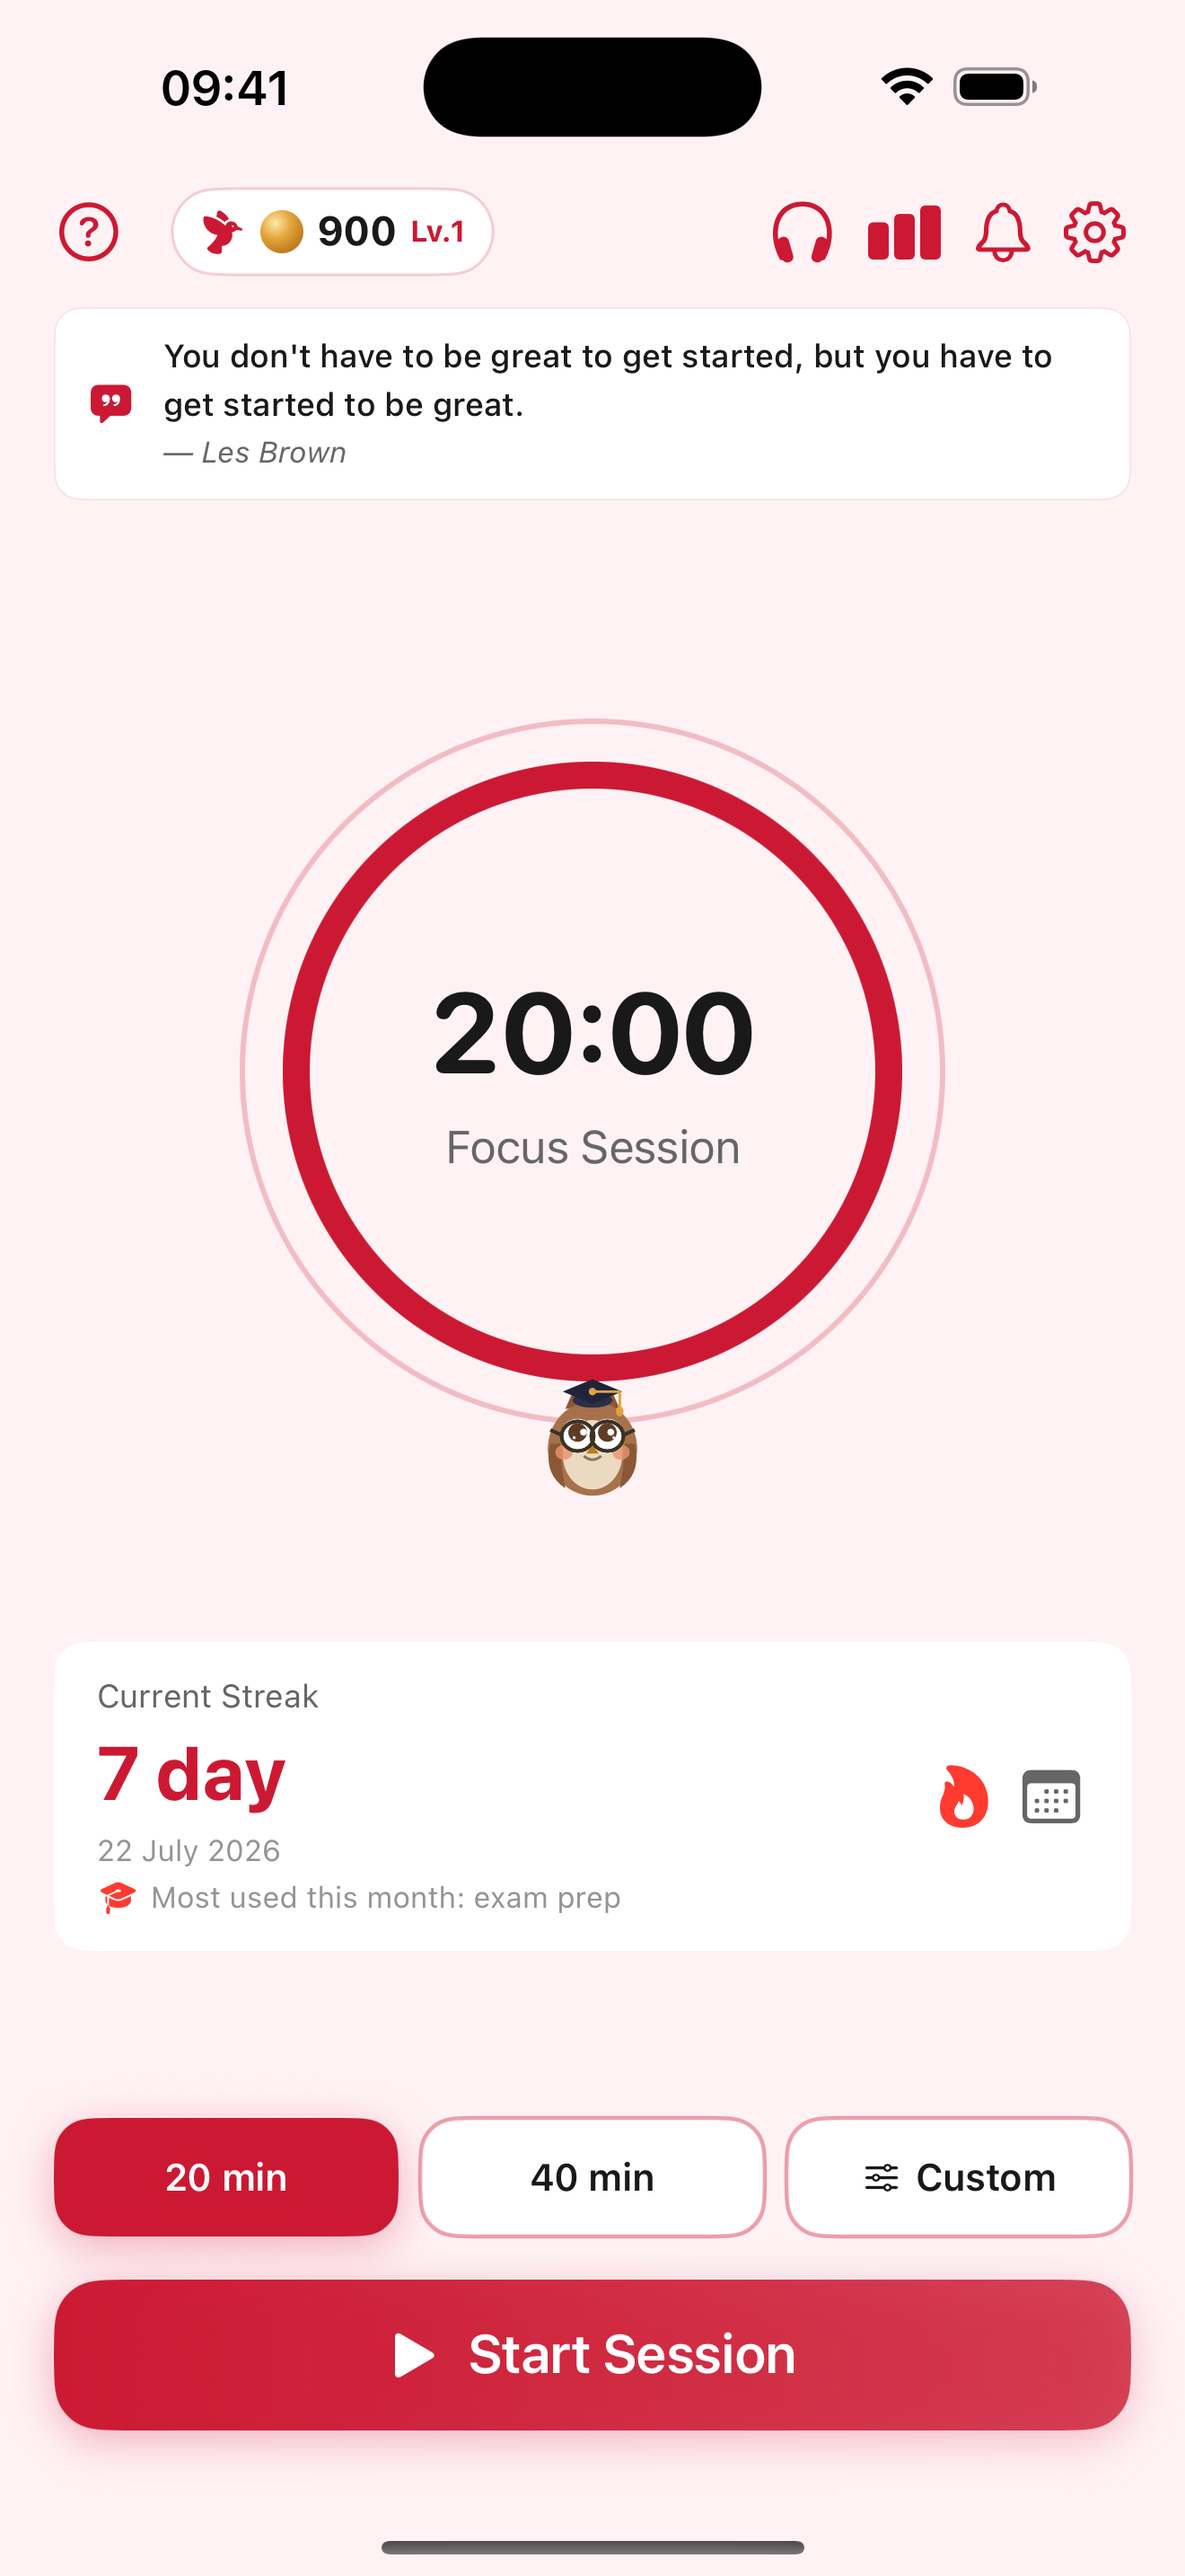
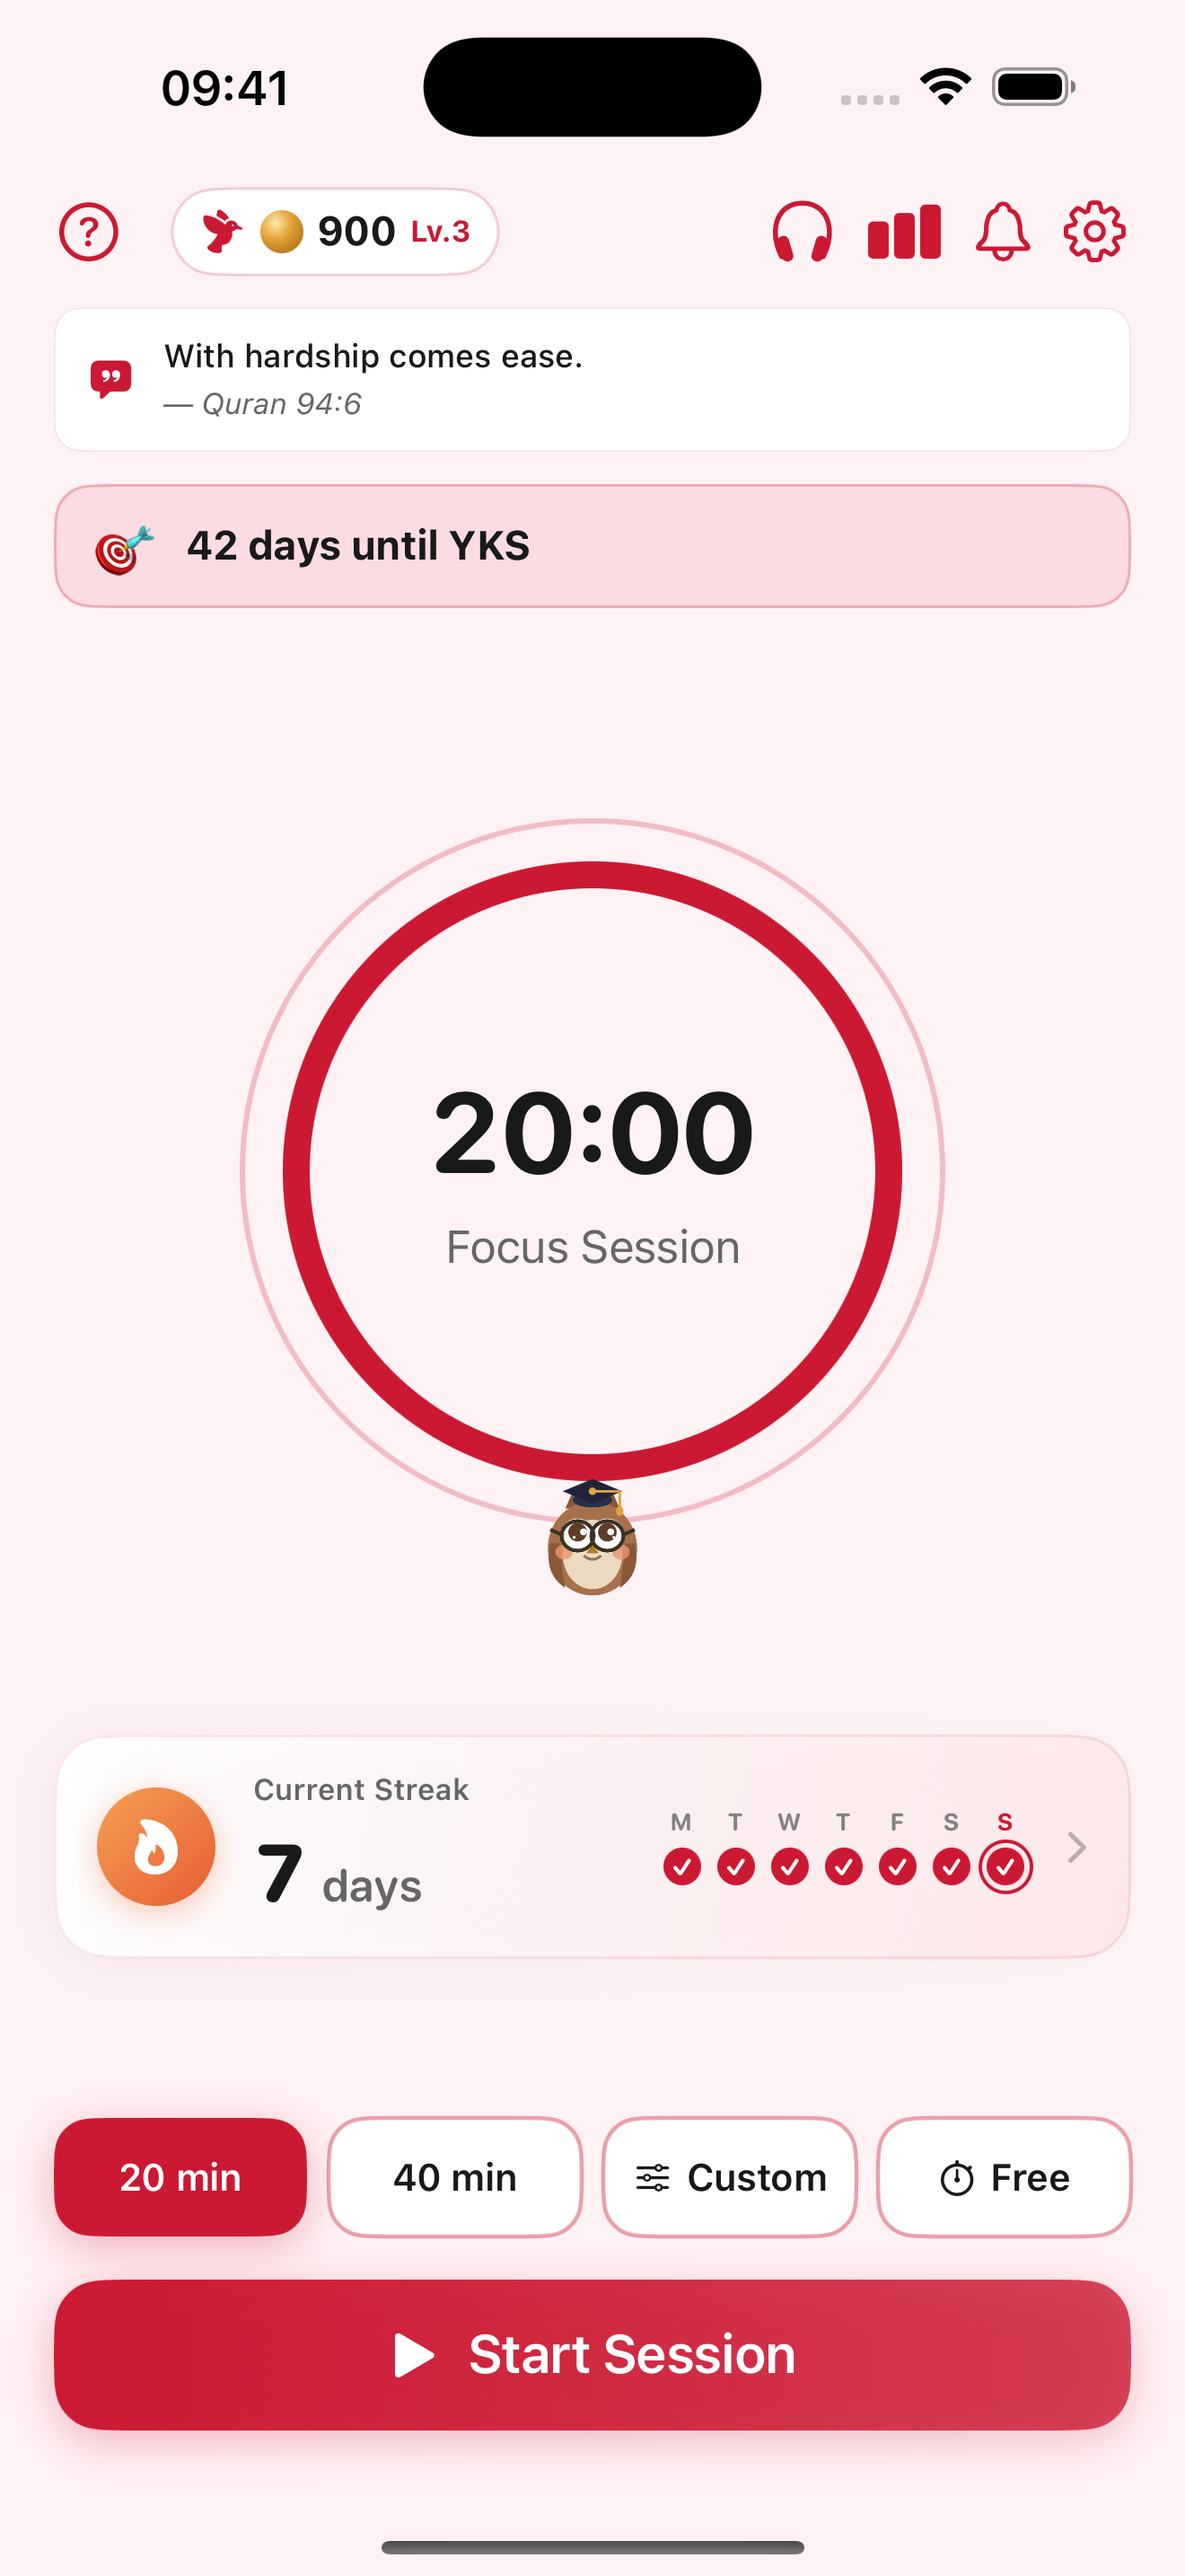
feat: 1.0.3 özellikleri — Sınav Geri Sayımı ve Seri Güvencesi kartları (6 dil), ana ekran görseli sınav kartıyla yenilendi

diff --git a/index.html b/index.html
@@ -278,6 +278,8 @@
         <div class="card reveal d3"><div class="ic"><svg viewBox="0 0 24 24" fill="none" stroke="currentColor" stroke-width="2" stroke-linecap="round" stroke-linejoin="round"><path d="M12 20h.01"/><path d="M8.5 16.429a5 5 0 0 1 7 0"/><path d="M5 12.859a10 10 0 0 1 5.17-2.69"/><path d="M19 12.859a10 10 0 0 0-2.007-1.523"/><path d="M2 8.82a15 15 0 0 1 4.177-2.643"/><path d="M22 8.82a15 15 0 0 0-11.288-3.764"/><path d="m2 2 20 20"/></svg></div><h3 data-i18n="g4_t">100% Offline</h3><p data-i18n="g4_d">No sign-up, no account, no distractions. Your data stays on your device.</p></div>
         <div class="card reveal"><div class="ic"><svg viewBox="0 0 24 24" fill="none" stroke="currentColor" stroke-width="2" stroke-linecap="round" stroke-linejoin="round"><path d="M12 3c-3.5 0-6 2.6-6 6v5a6 6 0 0 0 12 0V9c0-3.4-2.5-6-6-6Z"/><circle cx="9.5" cy="10" r="1"/><circle cx="14.5" cy="10" r="1"/><path d="M12 13v1"/><path d="m8 3 1.5 2M16 3l-1.5 2"/></svg></div><h3 data-i18n="g5_t">Your Study Owl</h3><p data-i18n="g5_d">Earn coins as you study and unlock rooms, outfits and achievements for your owl.</p></div>
         <div class="card reveal d1"><div class="ic"><svg viewBox="0 0 24 24" fill="none" stroke="currentColor" stroke-width="2" stroke-linecap="round" stroke-linejoin="round"><rect width="7" height="12" x="2" y="6" rx="1"/><path d="M5.5 4v2M5.5 18v2"/><rect width="10" height="14" x="12" y="5" rx="1.5"/><path d="M16 17h2"/></svg></div><h3 data-i18n="g6_t">Watch & iPad</h3><p data-i18n="g6_d">Start sprints from your wrist with the Apple Watch app. Full iPad support included.</p></div>
+        <div class="card reveal d2"><div class="ic"><svg viewBox="0 0 24 24" fill="none" stroke="currentColor" stroke-width="2" stroke-linecap="round" stroke-linejoin="round"><path d="M21.42 10.922a1 1 0 0 0-.019-1.838L12.83 5.18a2 2 0 0 0-1.66 0L2.6 9.08a1 1 0 0 0 0 1.832l8.57 3.908a2 2 0 0 0 1.66 0z"/><path d="M22 10v6"/><path d="M6 12.5V16a6 3 0 0 0 12 0v-3.5"/></svg></div><h3 data-i18n="g7_t">Exam Countdowns</h3><p data-i18n="g7_d">Add every exam you're preparing for and see the days left on your home screen and Lock Screen.</p></div>
+        <div class="card reveal d3"><div class="ic"><svg viewBox="0 0 24 24" fill="none" stroke="currentColor" stroke-width="2" stroke-linecap="round" stroke-linejoin="round"><path d="M20 13c0 5-3.5 7.5-7.66 8.95a1 1 0 0 1-.67-.01C7.5 20.5 4 18 4 13V6a1 1 0 0 1 1-1c2 0 4.5-1.2 6.24-2.72a1 1 0 0 1 1.52 0C14.5 3.8 17 5 19 5a1 1 0 0 1 1 1z"/><path d="m9 12 2 2 4-4"/></svg></div><h3 data-i18n="g8_t">Streak Safety Net</h3><p data-i18n="g8_d">Freeze tokens and one-day repair keep a busy day from breaking your streak.</p></div>
       </div>
     </div>
   </section>
@@ -371,6 +373,8 @@
         g4_t:`100% Offline`, g4_d:`No sign-up, no account, no distractions. Your data stays on your device.`,
         g5_t:`Your Study Owl`, g5_d:`Earn coins as you study and unlock rooms, outfits and achievements for your owl.`,
         g6_t:`Watch & iPad`, g6_d:`Start sprints from your wrist with the Apple Watch app. Full iPad support included.`,
+        g7_t:`Exam Countdowns`, g7_d:`Add every exam you're preparing for and see the days left on your home screen and Lock Screen.`,
+        g8_t:`Streak Safety Net`, g8_d:`Freeze tokens and one-day repair keep a busy day from breaking your streak.`,
         r_eyebrow:`From the App Store`, r_title:`Study Companions, Not Chores`,
         q1:`"A perfect app for anyone who struggles with focus, especially students preparing for exams."`, q1_role:`App Store review`,
         q2:`"A quality app with a clear, accessible interface where you can plan and track how you spend your time."`, q2_role:`App Store review`,
@@ -405,6 +409,8 @@
         g4_t:`%100 Çevrimdışı`, g4_d:`Kayıt yok, hesap yok, dikkat dağıtan yok. Verilerin cihazında kalır.`,
         g5_t:`Çalışma Baykuşun`, g5_d:`Çalıştıkça coin kazan, baykuşun için odalar, kostümler ve başarımlar aç.`,
         g6_t:`Watch ve iPad`, g6_d:`Apple Watch uygulamasıyla sprintleri bileğinden başlat, artık tam iPad desteğiyle.`,
+        g7_t:`Sınav Geri Sayımı`, g7_d:`Hazırlandığın her sınavı ekle; kalan günleri ana ekranda ve kilit ekranında gör.`,
+        g8_t:`Seri Güvencesi`, g8_d:`Dondurma jetonu ve tek günlük telafi, yoğun bir günün serini bozmasına izin vermez.`,
         r_eyebrow:`App Store'dan`, r_title:`Yük Değil, Çalışma Arkadaşı`,
         q1:`"Odak problemi yaşayanlar için ve özellikle sınava çalışan çocuklar için on numara uygulama olmuş."`, q1_role:`App Store yorumu`,
         q2:`"Kolay anlaşılır ve erişilebilir arayüzü ile zaman yönetiminizi planlayıp takip edebileceğiniz kaliteli bir uygulama."`, q2_role:`App Store yorumu`,
@@ -439,6 +445,8 @@
         g4_t:`100 % Offline`, g4_d:`Keine Anmeldung, kein Konto, keine Ablenkung. Deine Daten bleiben auf deinem Gerät.`,
         g5_t:`Deine Lern-Eule`, g5_d:`Verdiene Coins beim Lernen, schalte Räume, Outfits und Erfolge für deine Eule frei.`,
         g6_t:`Watch & iPad`, g6_d:`Starte Sprints mit der Apple-Watch-App vom Handgelenk, jetzt mit voller iPad-Unterstützung.`,
+        g7_t:`Prüfungs-Countdown`, g7_d:`Füge jede Prüfung hinzu und sieh die verbleibenden Tage auf Start- und Sperrbildschirm.`,
+        g8_t:`Serien-Schutz`, g8_d:`Einfrier-Token und die Ein-Tages-Reparatur verhindern, dass ein voller Tag deine Serie beendet.`,
         r_eyebrow:`Aus dem App Store`, r_title:`Lernbegleiter statt Pflicht`,
         q1:`„Eine großartige App für alle mit Konzentrationsproblemen, besonders für Schüler, die für Prüfungen lernen."`, q1_role:`App-Store-Rezension`,
         q2:`„Eine hochwertige App mit klarer, zugänglicher Oberfläche, mit der du deine Zeit planen und verfolgen kannst."`, q2_role:`App-Store-Rezension`,
@@ -473,6 +481,8 @@
         g4_t:`100 % sin conexión`, g4_d:`Sin registro, sin cuenta, sin distracciones. Tus datos se quedan en tu dispositivo.`,
         g5_t:`Tu búho de estudio`, g5_d:`Gana monedas al estudiar, desbloquea salas, atuendos y logros para tu búho.`,
         g6_t:`Watch y iPad`, g6_d:`Inicia sprints desde tu muñeca con la app de Apple Watch, ahora con soporte completo para iPad.`,
+        g7_t:`Cuenta atrás de exámenes`, g7_d:`Añade cada examen que preparas y ve los días restantes en la pantalla de inicio y la de bloqueo.`,
+        g8_t:`Red de seguridad para tu racha`, g8_d:`Los tokens de congelación y la reparación de un día evitan que un día ocupado rompa tu racha.`,
         r_eyebrow:`Del App Store`, r_title:`Compañeros de estudio, no tareas`,
         q1:`"Una app perfecta para quienes tienen problemas de concentración, sobre todo estudiantes que preparan exámenes."`, q1_role:`Reseña de App Store`,
         q2:`"Una app de calidad con una interfaz clara y accesible para planificar y seguir tu tiempo."`, q2_role:`Reseña de App Store`,
@@ -507,6 +517,8 @@
         g4_t:`100 % hors ligne`, g4_d:`Pas d'inscription, pas de compte, pas de distraction. Vos données restent sur votre appareil.`,
         g5_t:`Votre chouette d'étude`, g5_d:`Gagnez des pièces en étudiant, débloquez salles, tenues et succès pour votre chouette.`,
         g6_t:`Watch et iPad`, g6_d:`Lancez des sprints depuis votre poignet avec l'app Apple Watch, désormais avec prise en charge complète de l'iPad.`,
+        g7_t:`Comptes à rebours d'examens`, g7_d:`Ajoutez chaque examen que vous préparez et voyez les jours restants sur l'écran d'accueil et l'écran verrouillé.`,
+        g8_t:`Filet de sécurité pour votre série`, g8_d:`Les jetons de gel et la réparation d'un jour évitent qu'une journée chargée ne brise votre série.`,
         r_eyebrow:`Depuis l'App Store`, r_title:`Des compagnons d'étude, pas des corvées`,
         q1:`« Une appli parfaite pour ceux qui ont du mal à se concentrer, surtout les étudiants qui préparent des examens. »`, q1_role:`Avis App Store`,
         q2:`« Une appli de qualité, à l'interface claire et accessible, pour planifier et suivre votre temps. »`, q2_role:`Avis App Store`,
@@ -541,6 +553,8 @@
         g4_t:`100% офлайн`, g4_d:`Без регистрации, без аккаунта, без отвлечений. Ваши данные остаются на устройстве.`,
         g5_t:`Ваша учебная сова`, g5_d:`Зарабатывайте монеты за учёбу, открывайте комнаты, наряды и достижения для совы.`,
         g6_t:`Watch и iPad`, g6_d:`Запускайте спринты с запястья через приложение для Apple Watch, теперь с полной поддержкой iPad.`,
+        g7_t:`Обратный отсчёт до экзаменов`, g7_d:`Добавьте каждый экзамен и следите за оставшимися днями на главном экране и экране блокировки.`,
+        g8_t:`Защита серии`, g8_d:`Жетоны заморозки и восстановление пропущенного дня не дадут загруженному дню оборвать вашу серию.`,
         r_eyebrow:`Из App Store`, r_title:`Спутники в учёбе, а не рутина`,
         q1:`«Отличное приложение для тех, кому трудно сосредоточиться, особенно для школьников, готовящихся к экзаменам.»`, q1_role:`Отзыв в App Store`,
         q2:`«Качественное приложение с понятным интерфейсом, где можно планировать время и следить за ним.»`, q2_role:`Отзыв в App Store`,
